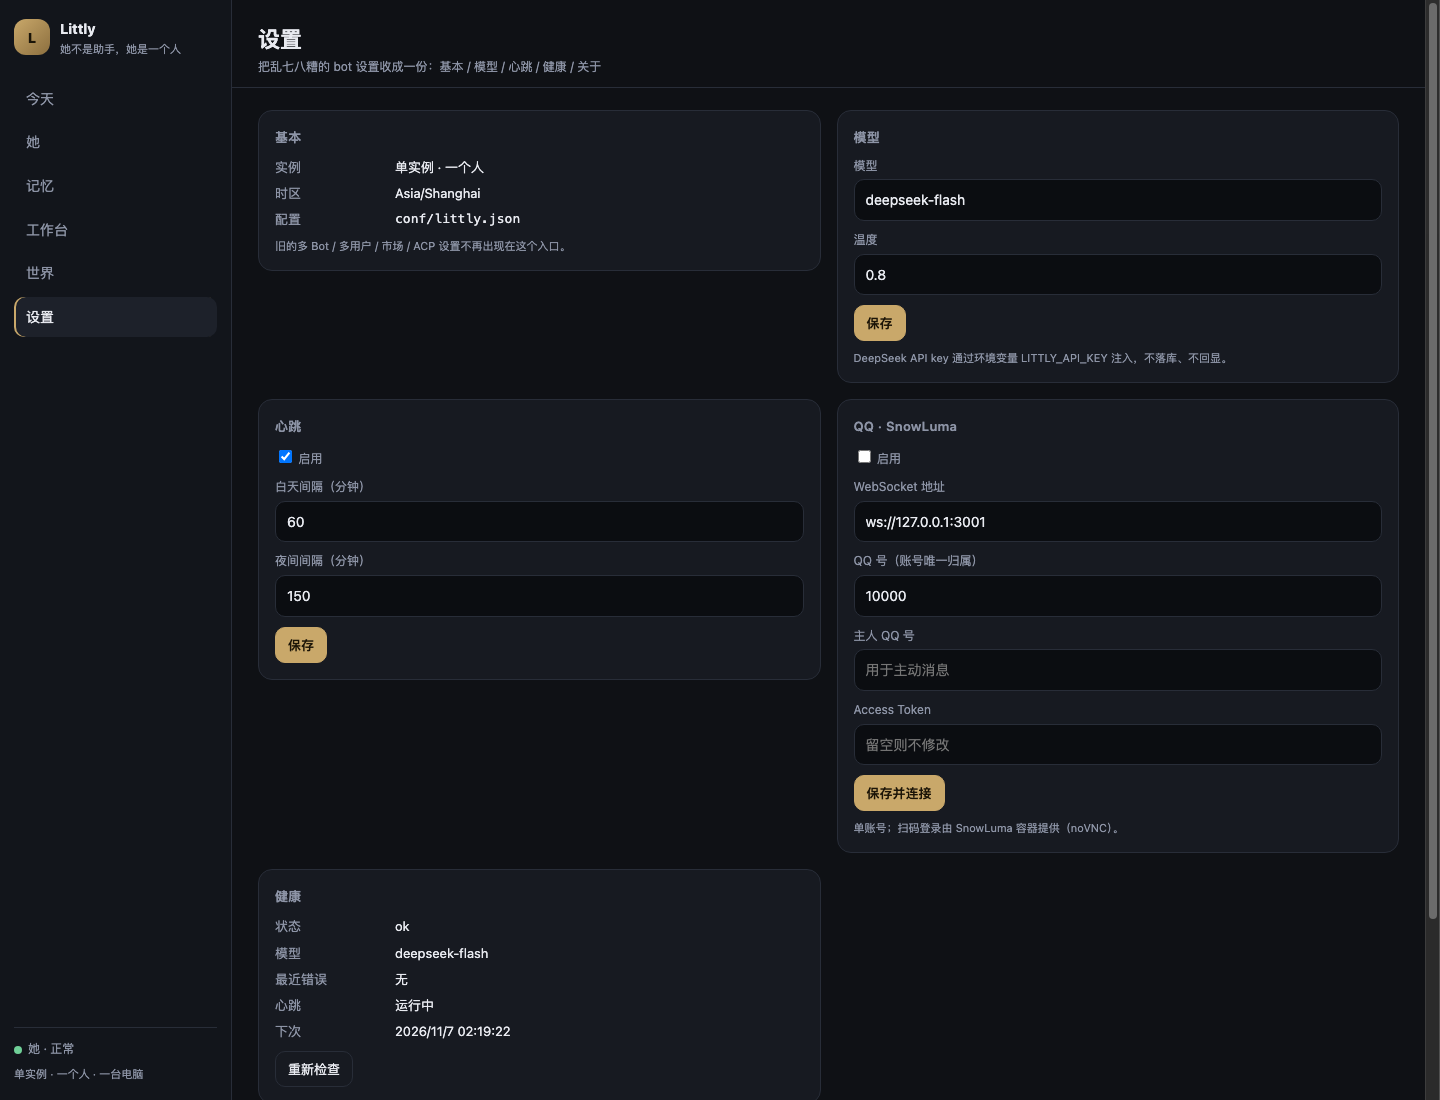
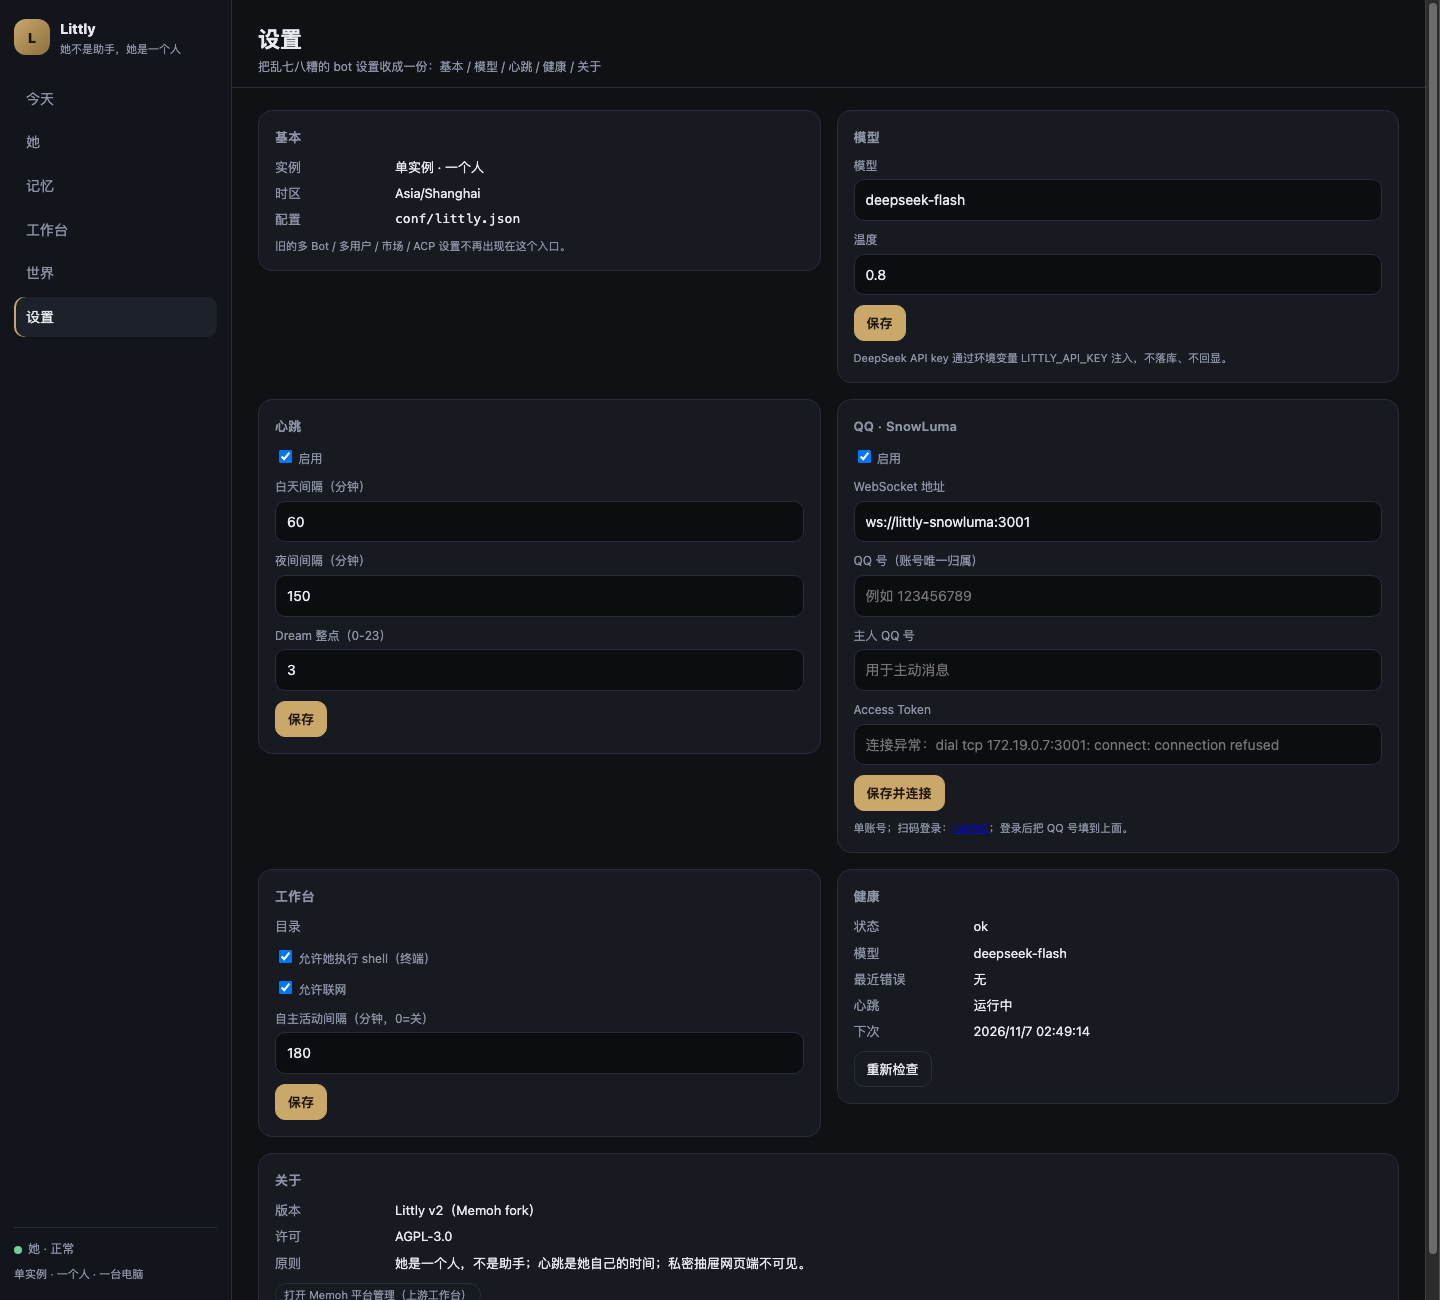
feat(settings): expose auto-activity interval and Dream hour; settings screenshot refresh
- config Workbench.AutoActivityMinutes (0 disables), default 180
- bootstrap exposes workbench.auto_activity_minutes + memory.dream_hour
- PUT /config accepts auto_activity_minutes, dream_hour
- settings UI: 工作台间隔 + Dream 整点
- tests still green

diff --git a/internal/littly/app/web/app.js b/internal/littly/app/web/app.js
@@ -250,6 +250,7 @@ async function renderSettings() {
         <label><input type="checkbox" id="set-hb" ${b.heartbeat.enabled ? "checked" : ""} style="width:auto" /> 启用</label>
         <label>白天间隔（分钟）</label><input id="set-day" type="number" min="5" max="240" value="${b.heartbeat.day_minutes}" />
         <label>夜间间隔（分钟）</label><input id="set-night" type="number" min="10" max="480" value="${b.heartbeat.night_minutes}" />
+        <label>Dream 整点（0-23）</label><input id="set-dream" type="number" min="0" max="23" value="${b.memory?.dream_hour ?? 3}" />
         <div class="row" style="margin-top:10px"><button class="primary" onclick="saveHeartbeat()">保存</button></div></section>
       <section class="card"><h3>QQ · SnowLuma</h3>
         <label><input type="checkbox" id="set-sl" ${b.channels?.snowluma?.enabled ? "checked" : ""} style="width:auto" /> 启用</label>
@@ -264,6 +265,7 @@ async function renderSettings() {
         <div class="kv"><div>目录</div><div class="mono">${esc(b.dirs?.workspace || "")}</div></div>
         <label><input type="checkbox" id="set-shell" ${b.workbench?.allow_shell ? "checked" : ""} style="width:auto" /> 允许她执行 shell（终端）</label>
         <label><input type="checkbox" id="set-net" ${b.workbench?.allow_network ? "checked" : ""} style="width:auto" /> 允许联网</label>
+        <label>自主活动间隔（分钟，0=关）</label><input id="set-auto" type="number" min="0" max="1440" value="${b.workbench?.auto_activity_minutes ?? 180}" />
         <div class="row" style="margin-top:10px"><button class="primary" onclick="saveWorkbench()">保存</button></div>
       </section>
       <section class="card"><h3>健康</h3><div id="health-box" class="kv">检查中…</div>
@@ -291,7 +293,7 @@ async function saveSnowLuma() {
   } catch (e) { toast(e.message, true); }
 }
 async function saveWorkbench() {
-  try { await api("/config", { method: "PUT", body: JSON.stringify({ allow_shell: $("#set-shell").checked, allow_network: $("#set-net").checked }) }); await loadBoot(); toast("已保存"); renderSettings(); }
+  try { await api("/config", { method: "PUT", body: JSON.stringify({ allow_shell: $("#set-shell").checked, allow_network: $("#set-net").checked, auto_activity_minutes: Number($("#set-auto").value) }) }); await loadBoot(); toast("已保存"); renderSettings(); }
   catch (e) { toast(e.message, true); }
 }
 async function updateHealth(force) {

diff --git a/internal/littly/app/web.go b/internal/littly/app/web.go
@@ -87,7 +87,8 @@ func (h *Handler) bootstrap(c echo.Context) error {
 		"health": h.svc.Health(),
 		"next_heartbeat": h.svc.nextHeartbeatInfo(),
 		"channels": map[string]any{"snowluma": h.svc.snowLumaStatus()},
-		"workbench": map[string]any{"dir": cfg.Workbench.Dir, "allow_shell": cfg.Workbench.AllowShell, "allow_network": cfg.Workbench.AllowNetwork},
+		"workbench": map[string]any{"dir": cfg.Workbench.Dir, "allow_shell": cfg.Workbench.AllowShell, "allow_network": cfg.Workbench.AllowNetwork, "auto_activity_minutes": cfg.Workbench.AutoActivityMinutes},
+		"memory": map[string]any{"dream_hour": cfg.Memory.DreamHour, "vault_dir": cfg.Memory.VaultDir},
 	})
 }
 
@@ -114,8 +115,10 @@ func (h *Handler) putConfig(c echo.Context) error {
 		SLToken       *string        `json:"snowluma_token"`
 		SLAccount     *string        `json:"snowluma_account"`
 		SLOwner       *string        `json:"snowluma_owner"`
-		AllowShell    *bool          `json:"allow_shell"`
-		AllowNetwork  *bool          `json:"allow_network"`
+		AllowShell        *bool `json:"allow_shell"`
+		AllowNetwork      *bool `json:"allow_network"`
+		AutoActivityMins  *int  `json:"auto_activity_minutes"`
+		DreamHour         *int  `json:"dream_hour"`
 	}
 	if err := c.Bind(&body); err != nil {
 		return jsonErr(c, 400, "bad json", err)
@@ -174,6 +177,12 @@ func (h *Handler) putConfig(c echo.Context) error {
 		}
 		if body.AllowNetwork != nil {
 			cfg.Workbench.AllowNetwork = *body.AllowNetwork
+		}
+		if body.AutoActivityMins != nil {
+			cfg.Workbench.AutoActivityMinutes = *body.AutoActivityMins
+		}
+		if body.DreamHour != nil {
+			cfg.Memory.DreamHour = *body.DreamHour
 		}
 	})
 	if err != nil {
@@ -453,7 +462,8 @@ func (h *Handler) world(c echo.Context) error {
 	cfg := h.svc.Config().Redacted()
 	return c.JSON(200, map[string]any{
 		"channels": map[string]any{"snowluma": h.svc.snowLumaStatus()},
-		"workbench": map[string]any{"dir": cfg.Workbench.Dir, "allow_shell": cfg.Workbench.AllowShell, "allow_network": cfg.Workbench.AllowNetwork},
+		"workbench": map[string]any{"dir": cfg.Workbench.Dir, "allow_shell": cfg.Workbench.AllowShell, "allow_network": cfg.Workbench.AllowNetwork, "auto_activity_minutes": cfg.Workbench.AutoActivityMinutes},
+		"memory": map[string]any{"dream_hour": cfg.Memory.DreamHour, "vault_dir": cfg.Memory.VaultDir},
 		"owner":    h.svc.Person(),
 		"model":    cfg.Brain.Model,
 		"dirs":     map[string]string{"vault": cfg.Memory.VaultDir, "workspace": cfg.Workbench.Dir},

diff --git a/internal/littly/config/config.go b/internal/littly/config/config.go
@@ -57,10 +57,11 @@ type Memory struct {
 }
 
 type Workbench struct {
-	Dir           string `json:"dir"`
-	MaxFileBytes  int64  `json:"max_file_bytes"`
-	AllowShell    bool   `json:"allow_shell"`
-	AllowNetwork  bool   `json:"allow_network"`
+	Dir                 string `json:"dir"`
+	MaxFileBytes        int64  `json:"max_file_bytes"`
+	AllowShell          bool   `json:"allow_shell"`
+	AllowNetwork        bool   `json:"allow_network"`
+	AutoActivityMinutes int    `json:"auto_activity_minutes"`
 }
 
 type SnowLuma struct {
@@ -141,6 +142,7 @@ func Default() Config {
 	c.Workbench.Dir = "data/workspace"
 	c.Workbench.MaxFileBytes = 8 << 20
 	c.Workbench.AllowNetwork = true
+	c.Workbench.AutoActivityMinutes = 180
 	c.Channels.SnowLuma.WSURL = "ws://127.0.0.1:3001"
 	c.Channels.SnowLuma.GroupAtOnly = true
 	c.Security.QuietStart = "23:00"
@@ -217,6 +219,9 @@ func (c *Config) Resolve() error {
 	}
 	if c.Memory.RetrievalTopK <= 0 {
 		c.Memory.RetrievalTopK = 12
+	}
+	if c.Workbench.AutoActivityMinutes == 0 {
+		c.Workbench.AutoActivityMinutes = 180
 	}
 	if c.Workbench.MaxFileBytes <= 0 {
 		c.Workbench.MaxFileBytes = 8 << 20

diff --git a/internal/littly/app/life.go b/internal/littly/app/life.go
@@ -160,7 +160,7 @@ var _ = os.Getenv
 // day. Both are guarded against heartbeat/LLM overlap and can be disabled with
 // LITTLY_AUTO_ACTIVITY=0.
 func (s *Service) tickLife(local time.Time) {
-	if os.Getenv("LITTLY_AUTO_ACTIVITY") == "0" || s.LLM() == nil {
+	if os.Getenv("LITTLY_AUTO_ACTIVITY") == "0" || s.cfg.Workbench.AutoActivityMinutes <= 0 || s.LLM() == nil {
 		return
 	}
 	s.mu.Lock()
@@ -214,5 +214,5 @@ func (s *Service) autoActivityDue(local time.Time) bool {
 			last = a.CreatedAt
 		}
 	}
-	return last.IsZero() || local.Sub(last) > 3*time.Hour
+	return last.IsZero() || local.Sub(last) > time.Duration(s.cfg.Workbench.AutoActivityMinutes)*time.Minute
 }

diff --git a/README.md b/README.md
@@ -7,7 +7,7 @@ Littly v2 是 **Memoh（AGPL-3.0）的硬分叉**。Memoh 提供服务器、Web 
 ## 现在已经能跑
 
 - **六面 UI**：`/littly/` — 今天 / 她 / 记忆 / 工作台 / 世界 / 设置（旧的设置入口 `/settings`、`/bots` 已重定向到新 UI）。
-- **她主动活着**：心跳（保底 + 自心跳）有理由、结构化裁决、no-op 治理；会自己安排下一次醒来。每日 `DreamHour`（默认 03:00）自动整理；白天闲置 3 小时会自己做一件小事（`LITTLY_AUTO_ACTIVITY=0` 可关）。
+- **她主动活着**：心跳（保底 + 自心跳）有理由、结构化裁决、no-op 治理；会自己安排下一次醒来。每日 `DreamHour`（默认 03:00）自动整理；白天闲置（默认 180 分钟，可在设置页调，0=关）会自己做一件小事；Dream 整点也可在设置页改。
 - **不是每条消息都回**：性格 traits + 关系 + 状态 + 消息内容 → 立即回 / 短回 / 晚点回 / 不回；决策留痕。
 - **记忆**：Markdown vault（SELF/domains/日记/人物卡）+ JSON 索引；可见性 public/relationship/private；私密抽屉网页端不可见。
 - **人物分层**：重要的人一人一卡；泛泛之交一行；90/180 天淡出进入**可搜索回收站**；她可以主动 `recall_person` 搜到再恢复（不自动恢复）。

diff --git a/BUILD-REPORT.md b/BUILD-REPORT.md
@@ -113,7 +113,7 @@ diaries|3
 ## M4 进度：自动节奏
 
 - `tickLife`：每 10s 检查，白天（`day_start`~`day_end`）且无运行中活动、最近一次活动超过 3 小时 → 自动 `RunSoloActivity`；每天 `Memory.DreamHour`（默认 3 点）自动 `RunDream`（同日只跑一次）。
-- 与心跳/LLM 调用互斥（`heartRunning` 检查），`LITTLY_AUTO_ACTIVITY=0` 可整体关闭。
+- 与心跳/LLM 调用互斥（`heartRunning` 检查）；设置页可调「自主活动间隔」（0=关）与 Dream 整点，`LITTLY_AUTO_ACTIVITY=0` 仍可整体关闭。
 - 单测：`TestLifeTickDueRules`（白天/夜间、3 小时冷却、Dream 同日只一次）。
 
 ## M4 进度：工作台终端
